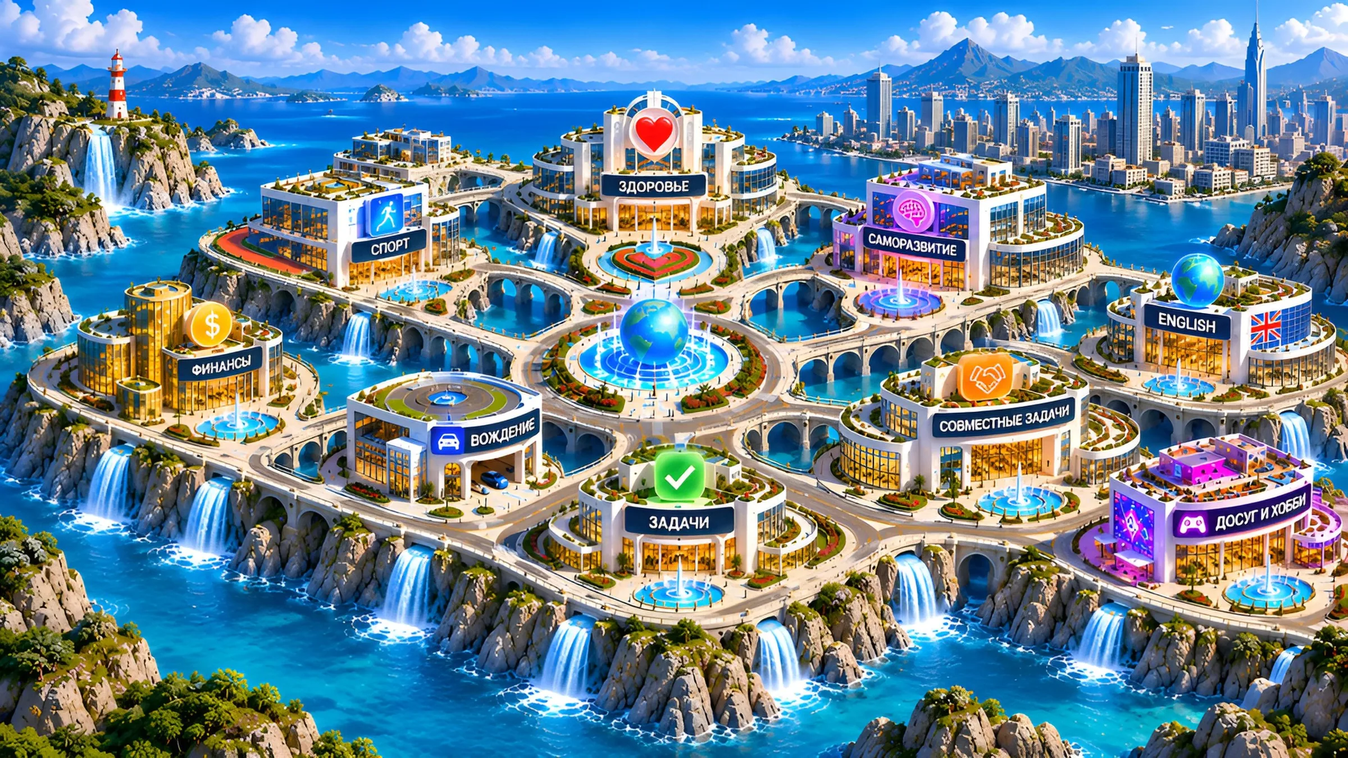
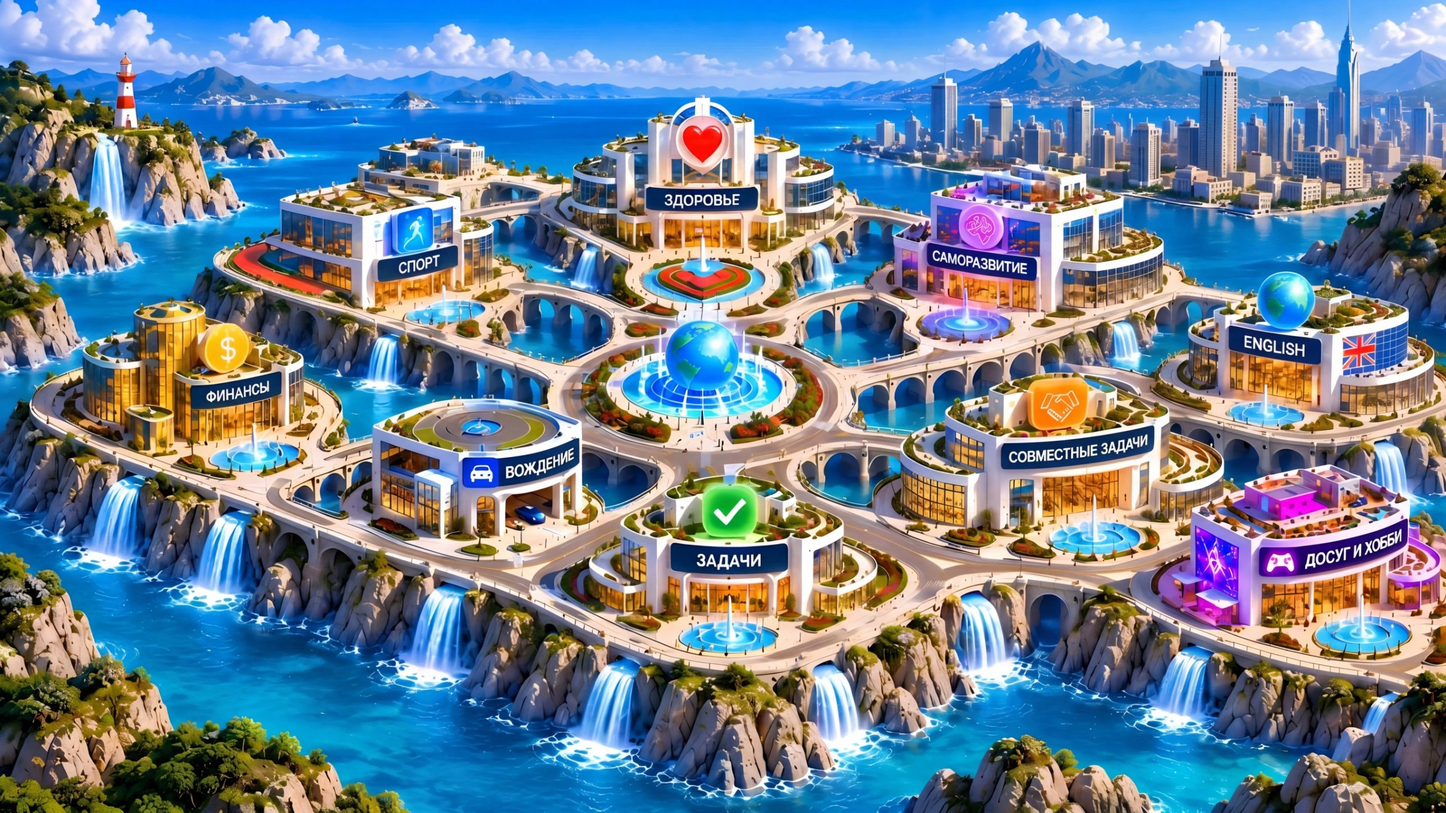
Город 0.22.5: карта заменена присланной (2576 × 1449)
Claude-Session: https://claude.ai/code/session_01NAK4mbhWpKoYFfv8XLsFMr

diff --git a/src/components/CoastalCity.tsx b/src/components/CoastalCity.tsx
@@ -121,7 +121,7 @@ export default function CoastalCity({ state,onOpen,paused,speed }: {
       <div className="coastal-stage" style={wide?{width:`${zoom*100}%`}:undefined}>
       <div className="coastal-map" data-time={preferences.time} data-weather={preferences.weather} data-paused={paused} data-editing={editing}
         style={{...(wide?{}:{width:`${zoom*175}%`}),'--city-rate':speed} as unknown as CSSProperties}>
-        <img src={wideMapUrl} width={2400} height={1350} alt="Прибрежный город на островах: девять зданий сфер жизни, мосты, водопады и пляж" draggable={false}/>
+        <img src={wideMapUrl} width={2576} height={1449} alt="Прибрежный город на островах: девять зданий сфер жизни, мосты, водопады и пляж" draggable={false}/>
         <LiveCityCanvas profile={profile} routes={routes} paused={paused} speed={speed} quality={preferences.quality} time={preferences.time} weather={preferences.weather}
           debug={debug} draft={draft} editing={editing} onPoint={point=>setDraft([...draft,point])}/>
         {buildings.map(building=>{

diff --git a/index.html b/index.html
@@ -4,7 +4,7 @@
     <meta charset="UTF-8" />
     <meta name="viewport" content="width=device-width, initial-scale=1.0, viewport-fit=cover" />
     <title>PLAY YOUR LIFE</title>
-    <meta name="application-version" content="0.22.4" />
+    <meta name="application-version" content="0.22.5" />
     <meta name="description" content="PLAY YOUR LIFE — игровая система развития жизни, целей, привычек и достижений." />
     <meta name="theme-color" content="#edf8ff" />
     <meta name="apple-mobile-web-app-capable" content="yes" />

diff --git a/CHANGELOG.md b/CHANGELOG.md
@@ -1,5 +1,9 @@
 # Актуальная версия PLAY YOUR LIFE
 
+## 0.22.5 — 14 октября 2026
+
+«Город»: карта `city-wide.webp` заменена присланной пользователем версией 2576 × 1449 (вместо 2400 × 1350; тот же вид, композиция совпадает с прежней в пределах 1,6 px, поэтому маршруты, зоны входа и маски не менялись). Данные игры не менялись.
+
 ## 0.22.4 — 14 октября 2026
 
 «Город»: чёткие жители и машины.
